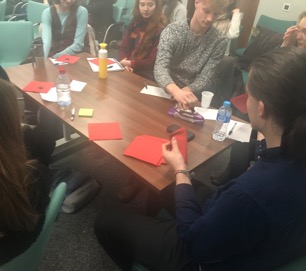
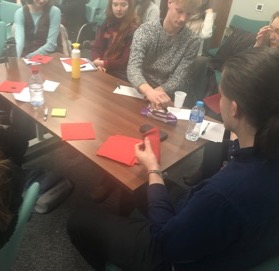
photos public speaking

diff --git a/docs/Public_Speaking.html b/docs/Public_Speaking.html
@@ -210,22 +210,6 @@ $(document).ready(function () {
 </div>
 
 
-<style>
-* {
-  box-sizing: border-box;
-}
-
-.row {
-  display: flex;
-}
-
-/* Create three equal columns that sits next to each other */
-.column {
-  flex: 33.33%;
-  padding: 5px;
-}
-</style>
-<body>
 <p>Passionate about the sharing and application of research, I continue to regularly engage with the public to bring to life recent findings surrounding Psychology and wellbeing, especially mindfulness.</p>
 <p><br></p>
 <div id="science-communication" class="section level3">
@@ -258,18 +242,6 @@ $(document).ready(function () {
 <p>Aimed at individuals with little or no previous experience, in this workshop, I introduce participants to mindfulness in a simple way, demystifying the topic and shedding light on misconceptions. Some exploration of the science behind mindfulness is included to demonstrate the range of effects that mindfulness has been found to carry. With the aid of videos and discussion throughout, participants will learn about various forms of mindfulness practice and have the opportunity to join in four different mindfulness exercises. After each exercise, participants are encouraged to share their experiences in small groups and reflect on how they could apply their new skills in mindfulness within various aspects of their daily lives.</p>
 <p><strong>This workshop is popular with university students!</strong></p>
 <p>Previous workshops have taken place at the University of Glasgow with great success.</p>
-<p><em>Photos to be uploaded soon - please check back later!</em></p>
-<div class="row">
-<div class="column">
-<pre><code>&lt;img src=&quot;images/Workshop1.jpg&quot; alt=&quot;Speaking and Engaging&quot; style=&quot;width:100%&quot;&gt;</code></pre>
-</div>
-<div class="column">
-<pre><code>&lt;img src=&quot;images/Workshop2.jpg&quot; alt=&quot;Chocolate Mindfulnes Exercise&quot; style=&quot;width:100%&quot;&gt;</code></pre>
-</div>
-<div class="column">
-<pre><code>&lt;img src=&quot;images/Workshop3_s.jpg&quot; alt=&quot;Participants&#39; Reflections&quot; style=&quot;width:100%&quot;&gt;</code></pre>
-</div>
-</div>
 <p><br></p>
 </div>
 <div id="advanced-mindfulness-workshops" class="section level4">
@@ -277,12 +249,14 @@ $(document).ready(function () {
 <p>Currently in development, I am keen to provide a workshop aimed at those who have prior experience in mindfulness or have completed the Introductory Mindfulness workshop.</p>
 <p>In this, we will explore ways to overcome typical hurdles in mindfulness practice and consider new ways of integrating mindfulness skills into our daily lives.</p>
 <p><br></p>
+<p><em>An Introductory Workshop at the University of Glasgow</em></p>
+<p><img src="images/Workshop1.jpg" style="width:33%"> <img src="images/Workshop2.jpg" style="width:33%"> <img src="images/Workshop3_s.jpg" style="width:33%"></p>
+<p><br></p>
 </div>
 </div>
 <div id="inquiries" class="section level3">
 <h3>Inquiries</h3>
 <p>If you have any questions or would like to book a speaking event or workshop, please get in touch!</p>
-</body>
 </div>
 
 
